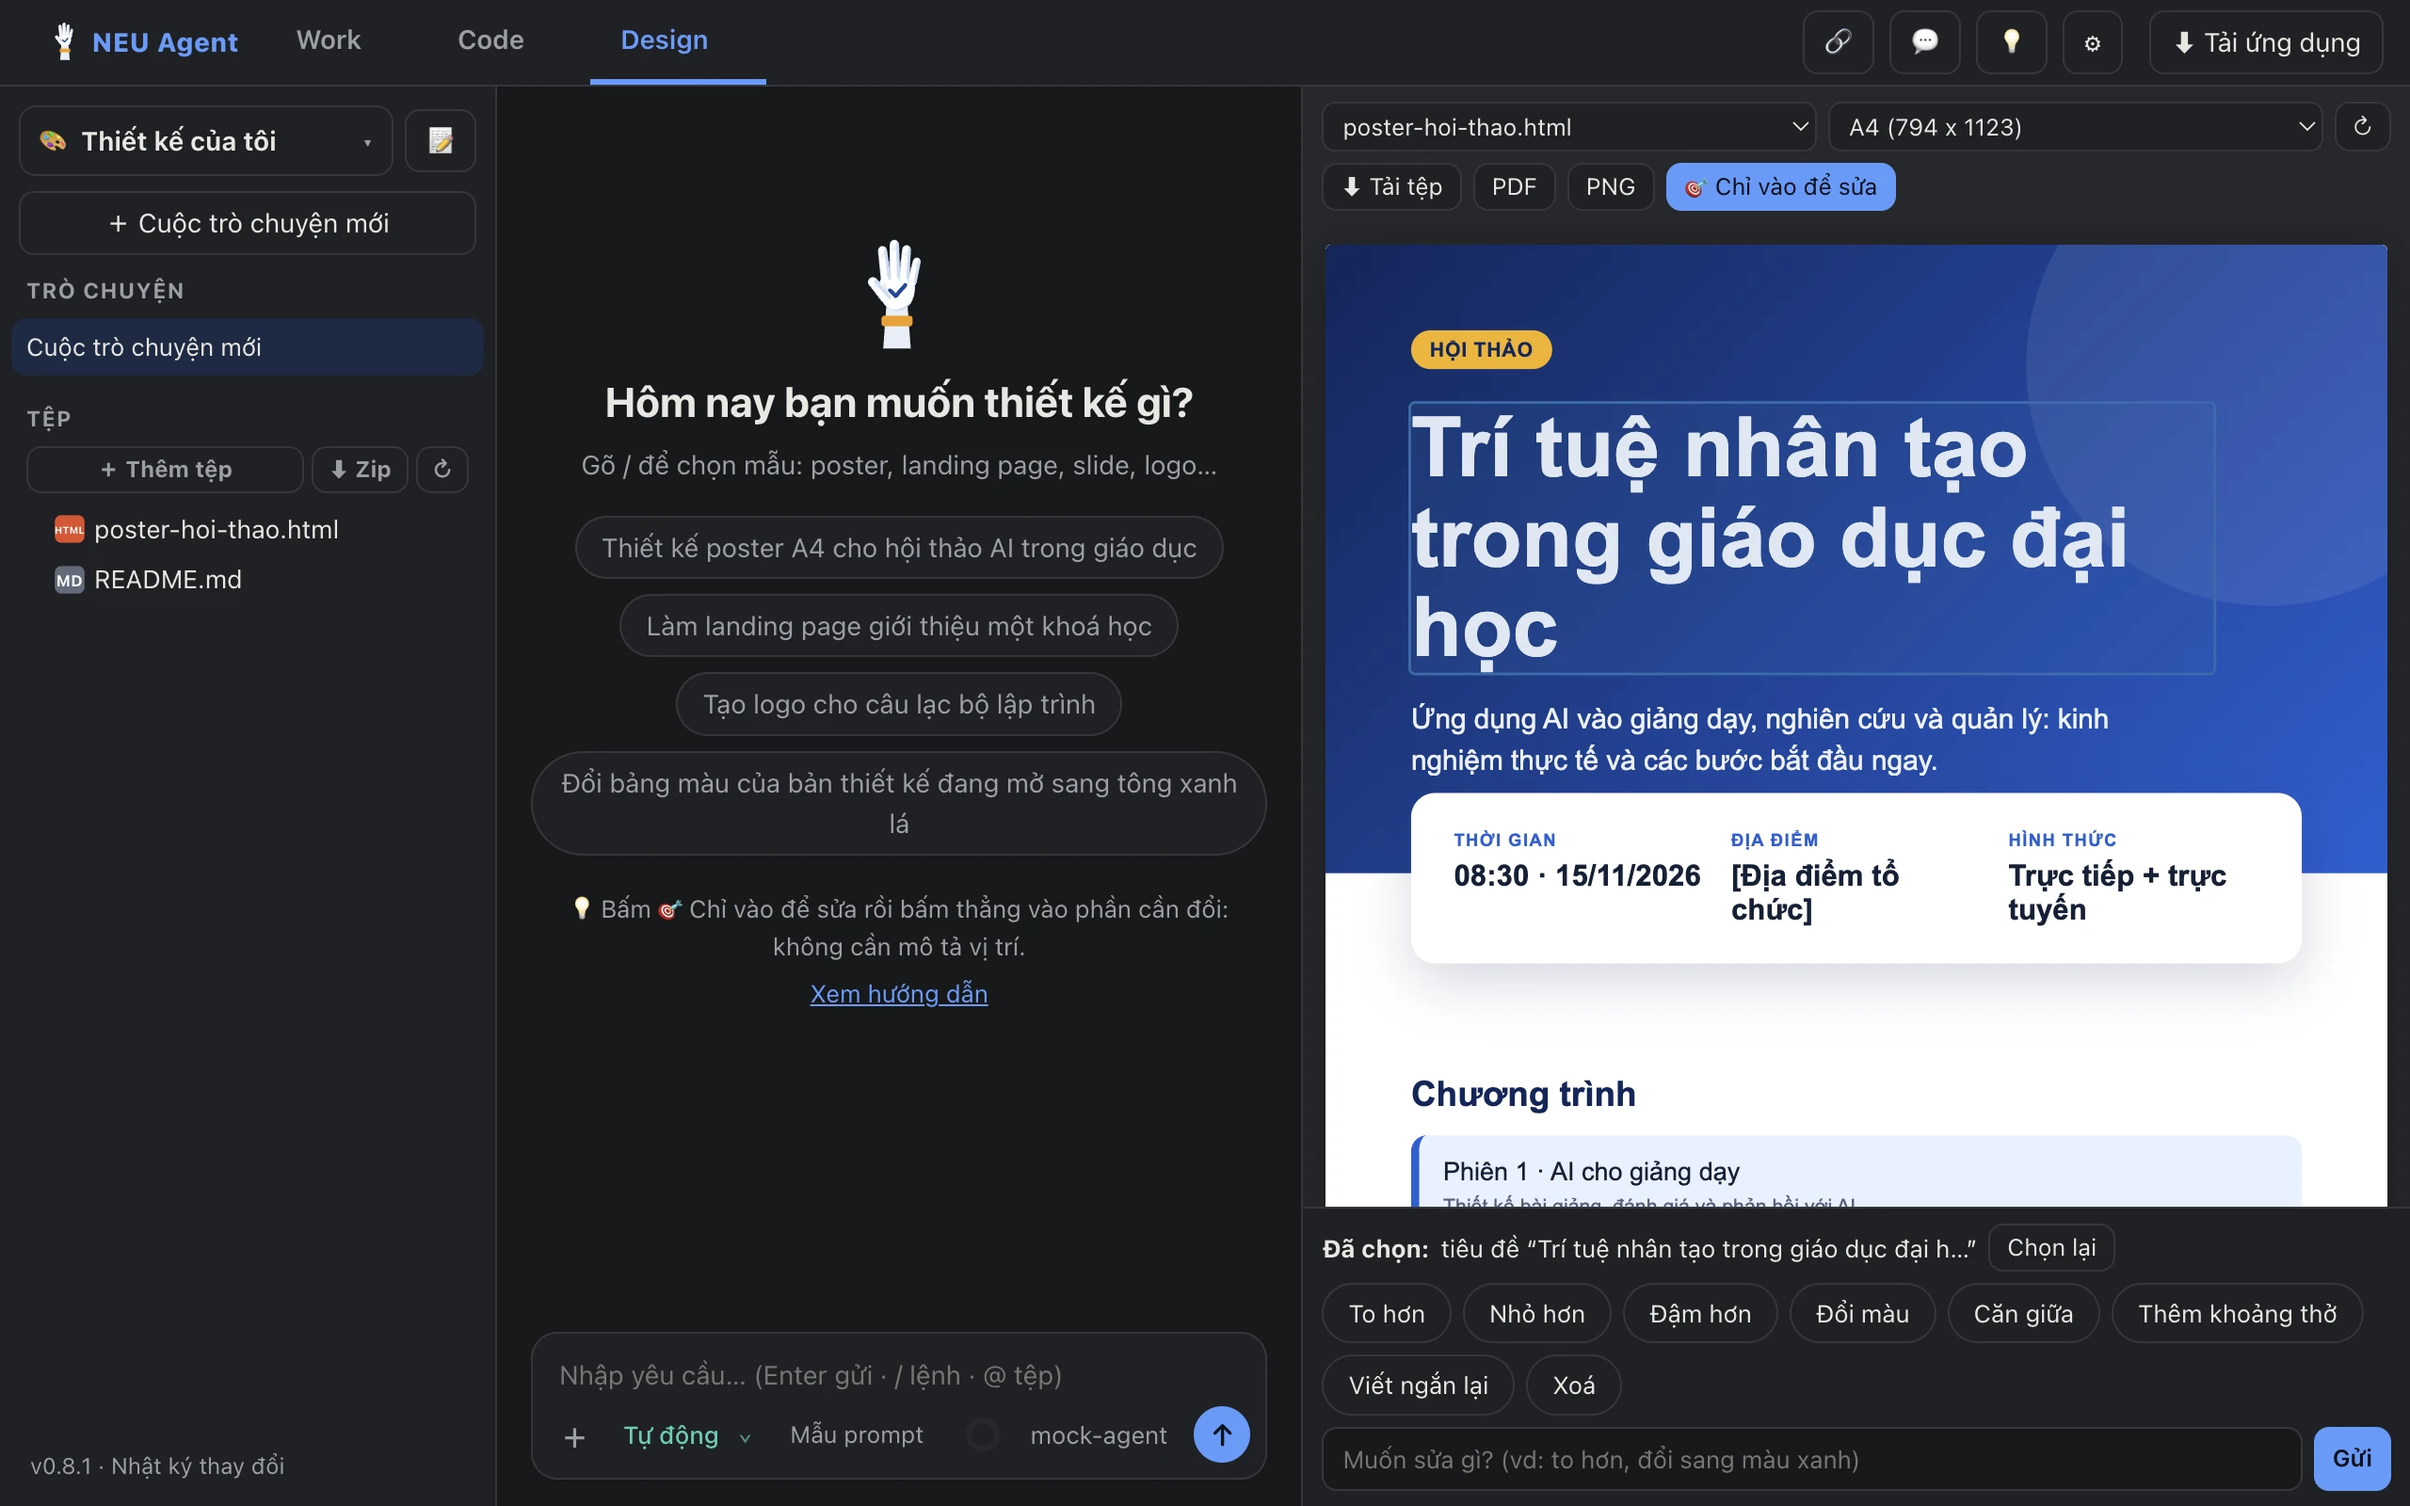
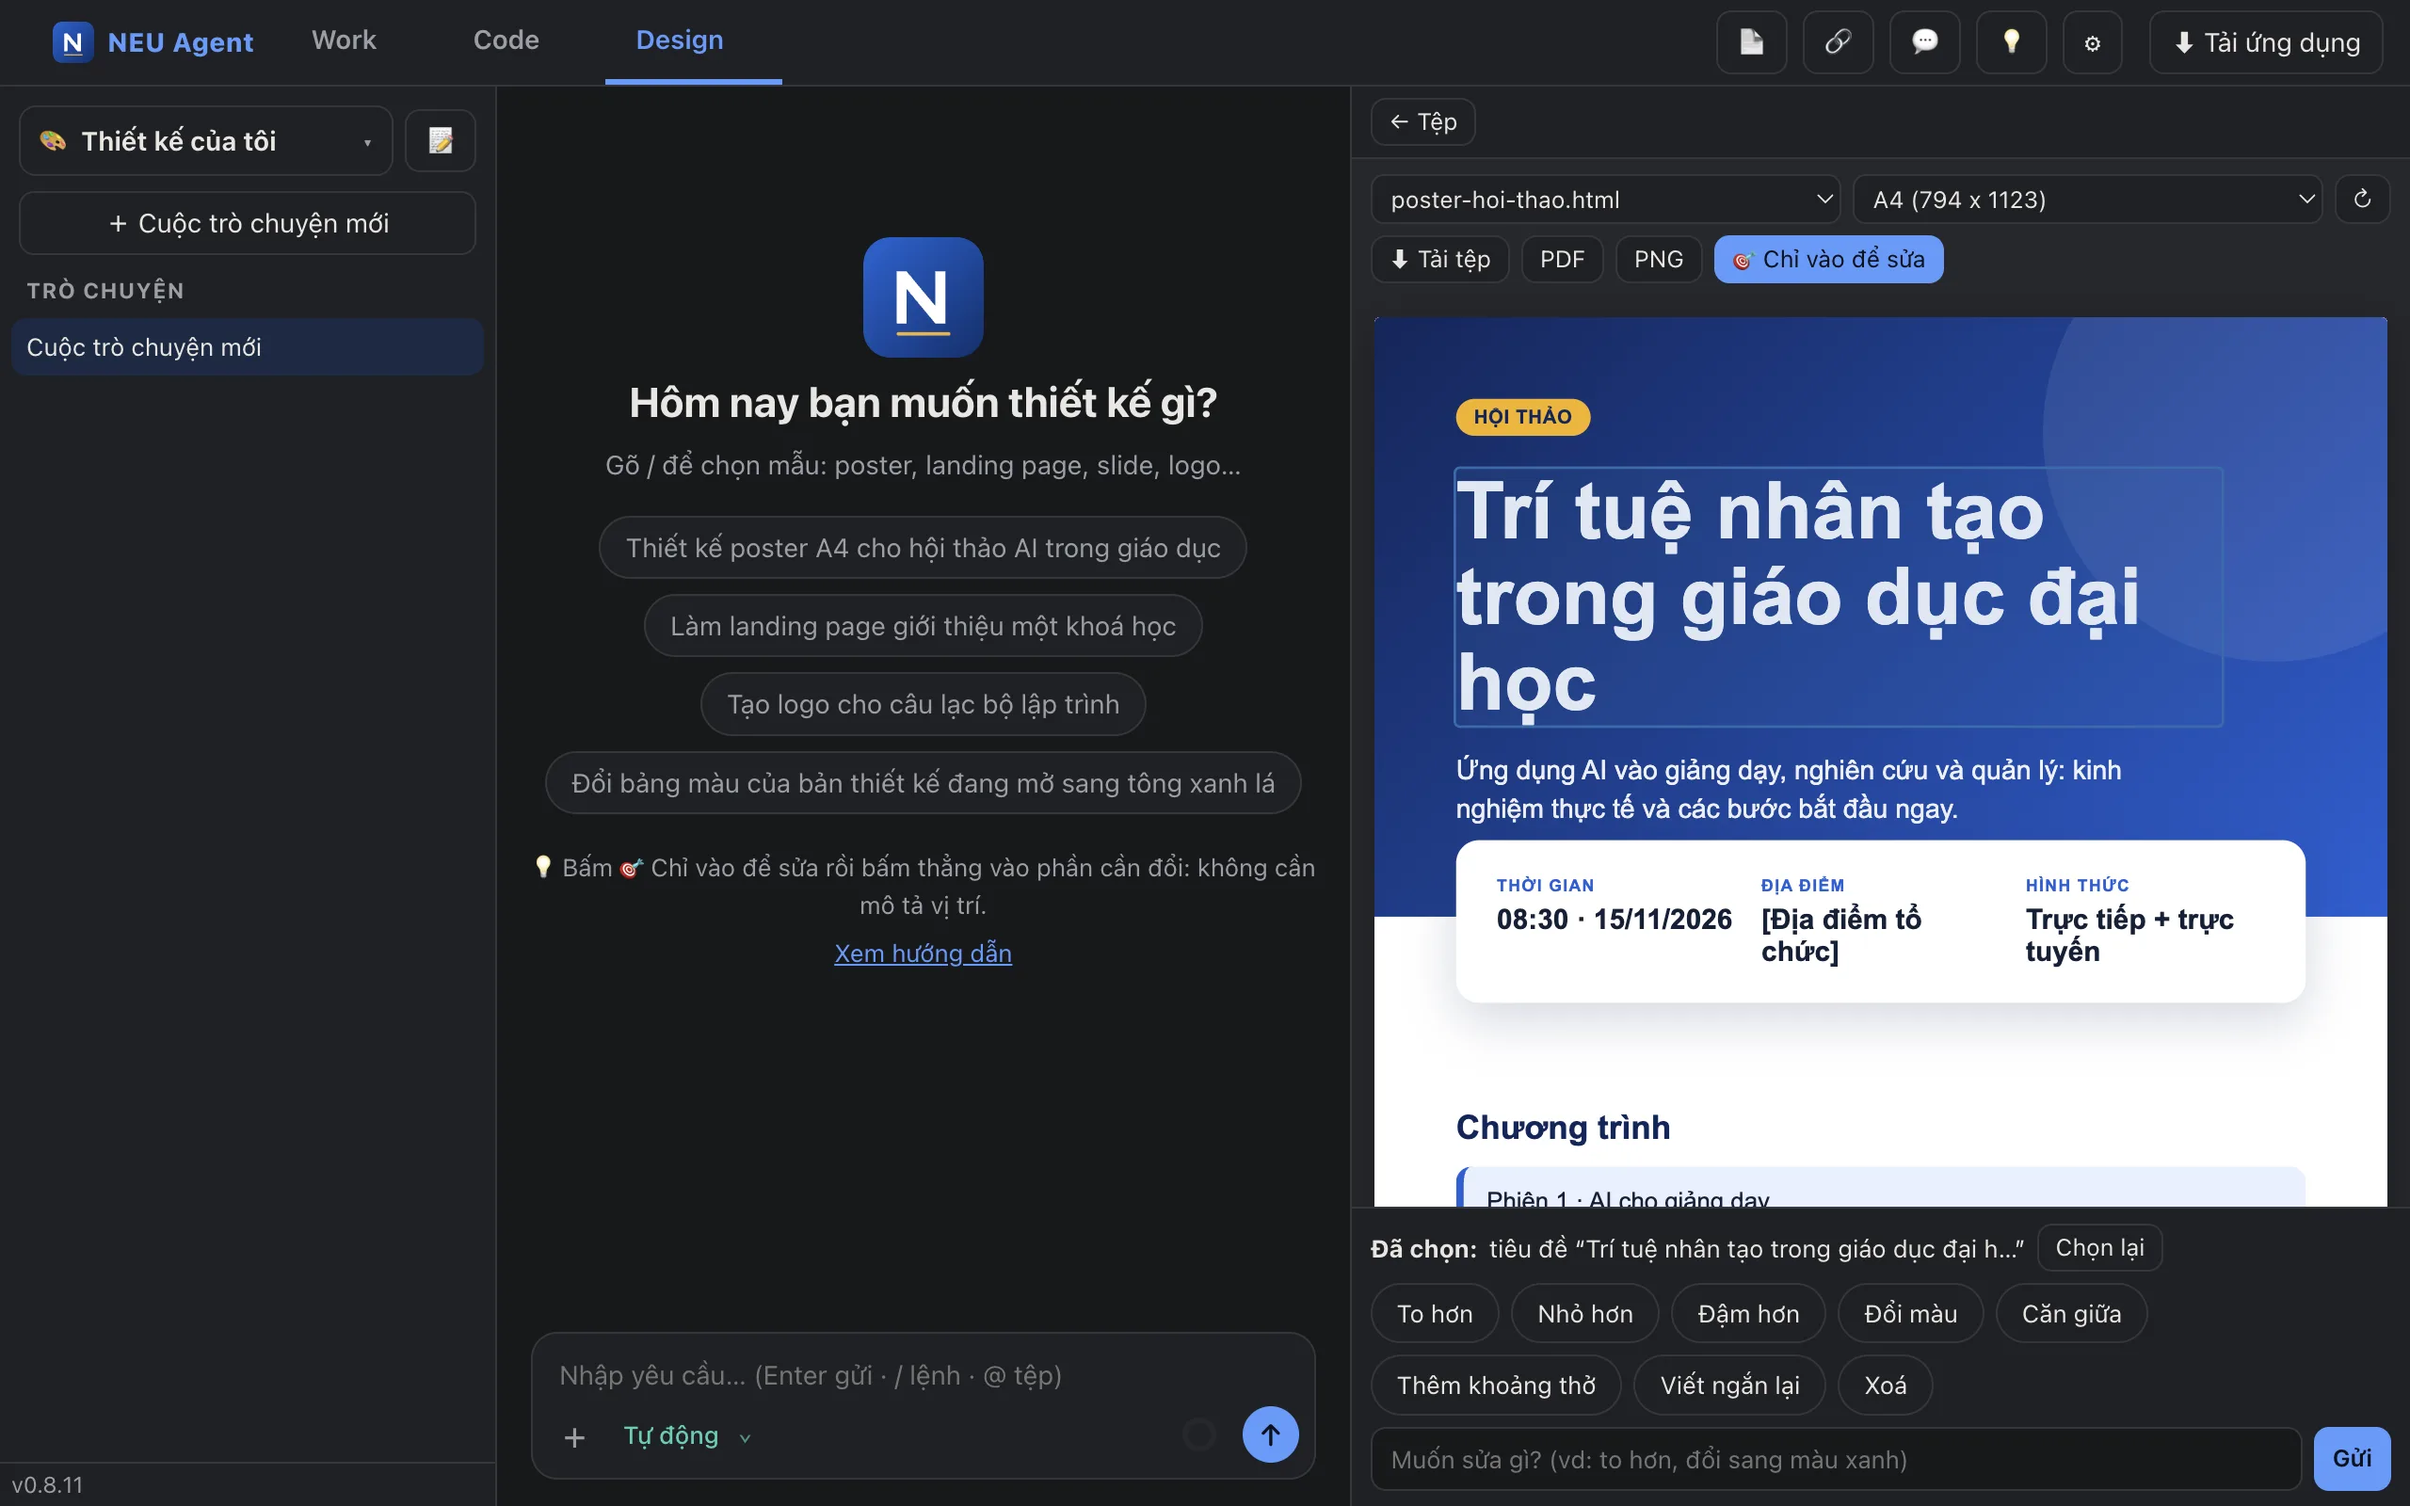
Trang giới thiệu: chụp lại 7 ảnh demo từ bản hiện tại (labs/landing-shots chụp lại được bằng một lệnh)

diff --git a/CHANGELOG.md b/CHANGELOG.md
@@ -10,7 +10,7 @@ Mục "Chưa phát hành" là nơi ghi dần khi làm; `node scripts/version.mjs
 - **Tab Design: thiết kế cao không còn kéo cả trang lên**: trước đây thiết kế dài (landing page, slide cao) làm cuộn cả cửa sổ, đẩy chân thanh bên (tên người dùng, phiên bản) lên giữa màn hình. Nay chỉ khung xem trước cuộn.
 
 ### Thay đổi
-- **Trang giới thiệu công khai gọn và cập nhật**: bỏ các thẻ chữ đè lên hình hai cánh tay và mục "Làm được nhiều hơn…" (trùng phần đầu trang), rút gọn câu thừa và lặp, thêm các tính năng mới (nhiều dự án cùng lúc, sửa tệp trong ứng dụng, tự mở thử trang web). Năm mục dưới tiêu đề bấm được, dẫn tới phần giải thích. Biểu tượng trang là chữ N của NEU Agent.
+- **Trang giới thiệu công khai gọn và cập nhật**: bỏ các thẻ chữ đè lên hình hai cánh tay và mục "Làm được nhiều hơn…" (trùng phần đầu trang), rút gọn câu thừa và lặp, thêm các tính năng mới (nhiều dự án cùng lúc, sửa tệp trong ứng dụng, tự mở thử trang web). Năm mục dưới tiêu đề bấm được, dẫn tới phần giải thích. Ảnh demo chụp lại từ bản hiện tại (giao diện tối, có chữ N). Biểu tượng trang là chữ N của NEU Agent.
 
 ## [0.8.11] - 2026-10-12
 
